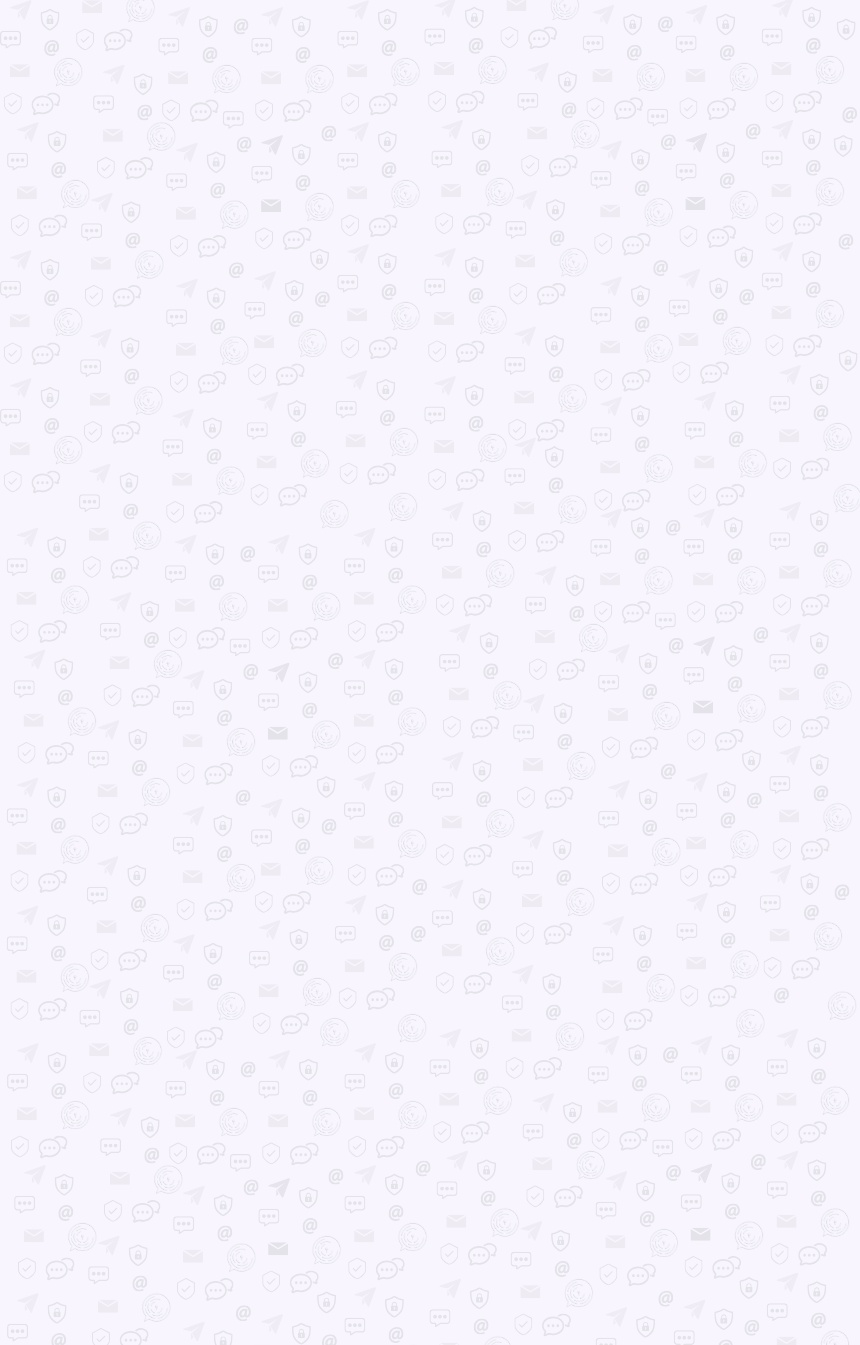
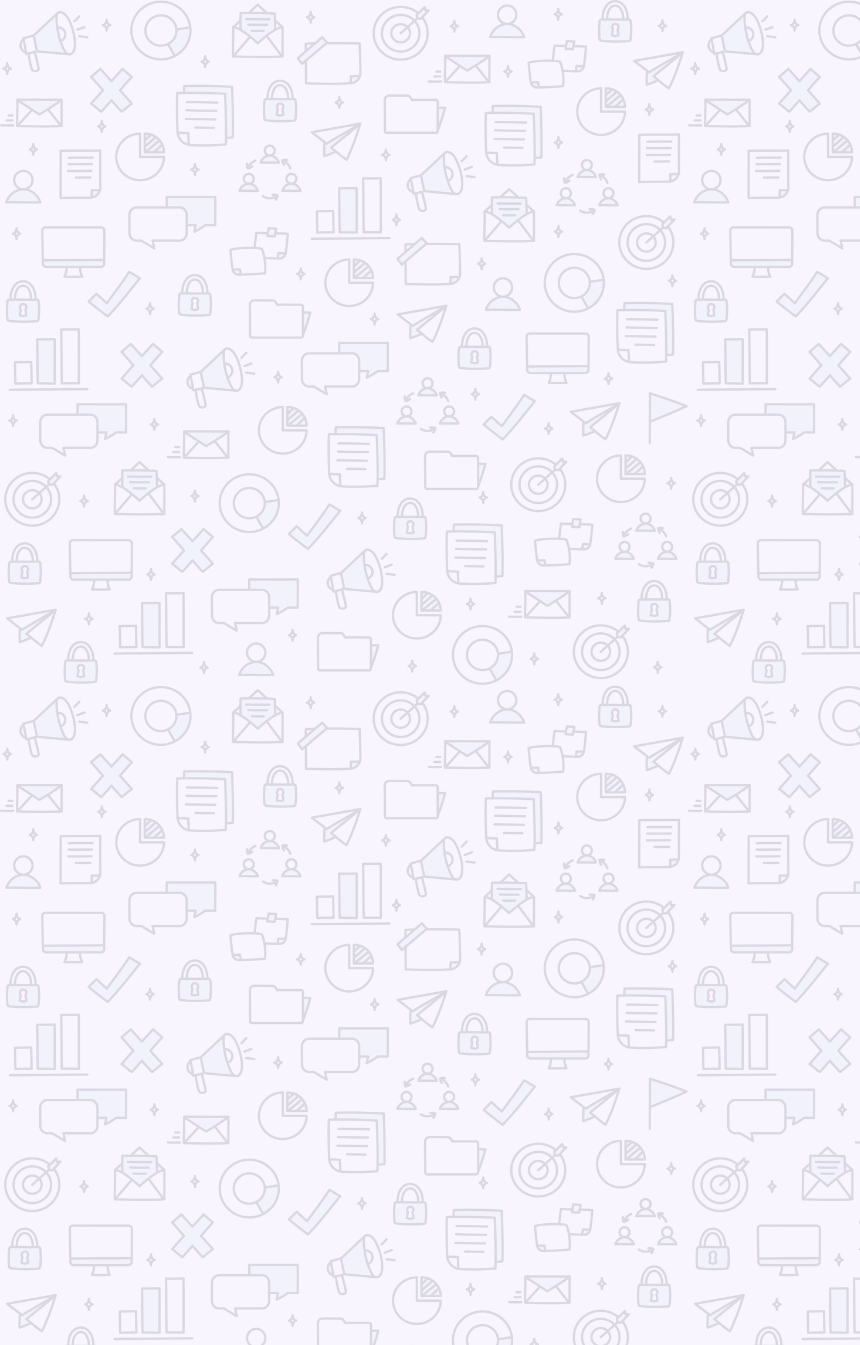
Updated invite theme to match with Privitty theme

diff --git a/index.html b/index.html
@@ -17,6 +17,9 @@
     <meta property="twitter:site" content="@privitty_chat">
 
     <link rel="icon" href="identity.png" sizes="any" type="image/svg+xml">
+    <link rel="preconnect" href="https://fonts.googleapis.com">
+    <link rel="preconnect" href="https://fonts.gstatic.com" crossorigin>
+    <link href="https://fonts.googleapis.com/css2?family=Plus+Jakarta+Sans:wght@400;500;600;700&display=swap" rel="stylesheet">
 
     <script src="./qr.min.js"></script>
     <script src="./i18n/i18next.min.js"></script>
@@ -28,23 +31,27 @@
     <style>
         :root {
             --pad: 8px;
-            --dc-color-1: #051551;
-            --dc-color-2: #854DFF;
-            --dc-gradient: linear-gradient(120deg, var(--dc-color-1), var(--dc-color-2));
+            --privitty-primary: #7F66C5;
+            --privitty-primary-dark: #6b52b0;
+            --privitty-foreground: #F8F5FF;
+            --privitty-gradient: linear-gradient(135deg, var(--privitty-primary) 0%, var(--privitty-primary-dark) 100%);
         }
 
         body {
             margin: 0;
 
-            font-family: Arial, Avant Garde, Avantgarde, Century Gothic, CenturyGothic, AppleGothic, sans-serif;
-            font-size: 12pt;
+            font-family: 'Plus Jakarta Sans', -apple-system, BlinkMacSystemFont, sans-serif;
+            font-size: 14pt;
 
-            background: url('background.png');
+            background: var(--privitty-foreground);
+            background-image: url('background.png');
             background-size: 500px;
+            background-color: var(--privitty-foreground);
+            color: #2d2a3a;
         }
 
         a {
-            color: #1e6bb8;
+            color: var(--privitty-primary);
             text-decoration: none;
         }
 
@@ -55,10 +62,10 @@
 
         header {
             padding: var(--pad);
-            font-family: Arial, 'Helvetica Neue', Helvetica;
+            font-family: 'Plus Jakarta Sans', -apple-system, BlinkMacSystemFont, sans-serif;
             font-size: 18pt;
-            background: var(--dc-gradient);
-            box-shadow: 0px 0px 3px #888;
+            background: var(--privitty-primary);
+            box-shadow: 0 2px 8px rgba(127, 102, 197, 0.25);
         }
 
         header a {
@@ -85,9 +92,9 @@
 
         #box {
             border-radius: 16px;
-            background: white;
-            padding: 15px;
-            box-shadow: 0px 0px 10px #ccc;
+            background: var(--privitty-foreground);
+            padding: 24px;
+            box-shadow: 0 4px 24px rgba(127, 102, 197, 0.12);
 
             max-width: 420px;
             margin-left: auto;
@@ -113,14 +120,22 @@
         #dc-link,
         .download,
         .share-link {
-            padding: 10px;
+            padding: 12px 20px;
             border-radius: 30px;
-            font-size: 10pt;
-            font-weight: bold;
+            font-size: 11pt;
+            font-weight: 600;
             text-transform: uppercase;
+            letter-spacing: 0.5px;
             text-decoration: none;
             color: white;
-            background: var(--dc-gradient);
+            background: var(--privitty-primary);
+            transition: background 0.2s ease, transform 0.1s ease;
+        }
+
+        #dc-link:hover,
+        .download:hover,
+        .share-link:hover {
+            background: var(--privitty-primary-dark);
         }
 
         /* circle numbers for ol https://jsfiddle.net/j2gK8/  */
@@ -167,8 +182,9 @@
             top: -10px;
             border-radius: 999px;
 
-            color: var(--dc-color-2);
-            background: #f4f4f4;
+            color: var(--privitty-primary);
+            background: rgba(127, 102, 197, 0.08);
+            border: 1px solid rgba(127, 102, 197, 0.2);
             font-size: 14pt;
             text-align: center;
         }

diff --git a/download.html b/download.html
@@ -10,6 +10,9 @@
     <meta property="og:url" content="https://i.privittytech.com">
 
     <link rel="icon" href="identity.png" sizes="any" type="image/svg+xml">
+    <link rel="preconnect" href="https://fonts.googleapis.com">
+    <link rel="preconnect" href="https://fonts.gstatic.com" crossorigin>
+    <link href="https://fonts.googleapis.com/css2?family=Plus+Jakarta+Sans:wght@400;500;600;700&display=swap" rel="stylesheet">
 
     <title>Get Privitty Chat - Privitty Chat</title>
     <style>
@@ -20,9 +23,9 @@
         }
 
         body {
-            font-family: Arial, Avant Garde, Avantgarde, Century Gothic, CenturyGothic, AppleGothic, sans-serif;
-            background-color: #f4f4f4;
-            color: #333;
+            font-family: 'Plus Jakarta Sans', -apple-system, BlinkMacSystemFont, sans-serif;
+            background-color: #F8F5FF;
+            color: #2d2a3a;
             display: flex;
             flex-direction: column;
             align-items: center;
@@ -31,8 +34,7 @@
 
         nav {
             width: 100%;
-            background-color: #159957;
-            background-image: linear-gradient(120deg, #051551, #854DFF);
+            background-color: #7F66C5;
             display: flex;
             justify-content: center;
             align-items: center;
@@ -102,7 +104,7 @@
 
         .container a {
             text-decoration: none;
-            color: #007BFF;
+            color: #7F66C5;
             font-size: 16px;
         }
 
@@ -111,7 +113,8 @@
         }
 
         .download-platform {
-            background-color: #ccd6fe;
+            background-color: rgba(127, 102, 197, 0.12);
+            border: 1px solid rgba(127, 102, 197, 0.2);
             border-radius: 10px;
             padding: 10px;
             display: none;
@@ -134,9 +137,9 @@
             justify-content: center;
             height: 48px;
             padding: 5px;
-            background: #111;
+            background: #7F66C5;
             color: white;
-            border: 2px solid #444;
+            border: 2px solid #6b52b0;
             box-sizing: border-box;
             border-radius: 10px;
             text-decoration: none;
@@ -150,20 +153,21 @@
         }
 
         .download-platform-android {
-            background-color: #ccd6fe;
+            background-color: rgba(127, 102, 197, 0.12);
+            border: 1px solid rgba(127, 102, 197, 0.2);
             border-radius: 10px;
             padding: 10px;
             display: none;
         }
 
         #show-all-platforms a {
-            color: #333;
+            color: #2d2a3a;
         }
 
         #show-all-platforms a::before {
             content: "▶ ";
             margin-right: 6px;
-            color: #333;
+            color: #7F66C5;
         }
 
         #android-header {
@@ -181,7 +185,7 @@
         .coming-soon h1 {
             font-size: 2em;
             margin: 10px 0;
-            color: #007BFF;
+            color: #7F66C5;
         }
 
         .footer-links {
@@ -193,7 +197,7 @@
 
         footer {
             margin-top: auto;
-            background-color: #e3e3e3;
+            background-color: #7F66C5;
             color: white;
             text-align: center;
             padding: 10px;
@@ -201,14 +205,18 @@
         }
 
         footer p,
-        li {
-            color: #333;
+        footer li {
+            color: #F8F5FF;
         }
 
         footer .footer-links li a {
             margin: 0 10px;
-            color: #007BFF;
+            color: #F8F5FF;
             text-decoration: none;
+        }
+
+        footer .footer-links li a:hover {
+            text-decoration: underline;
         }
 
         @media only screen and (min-width: 640px) {
